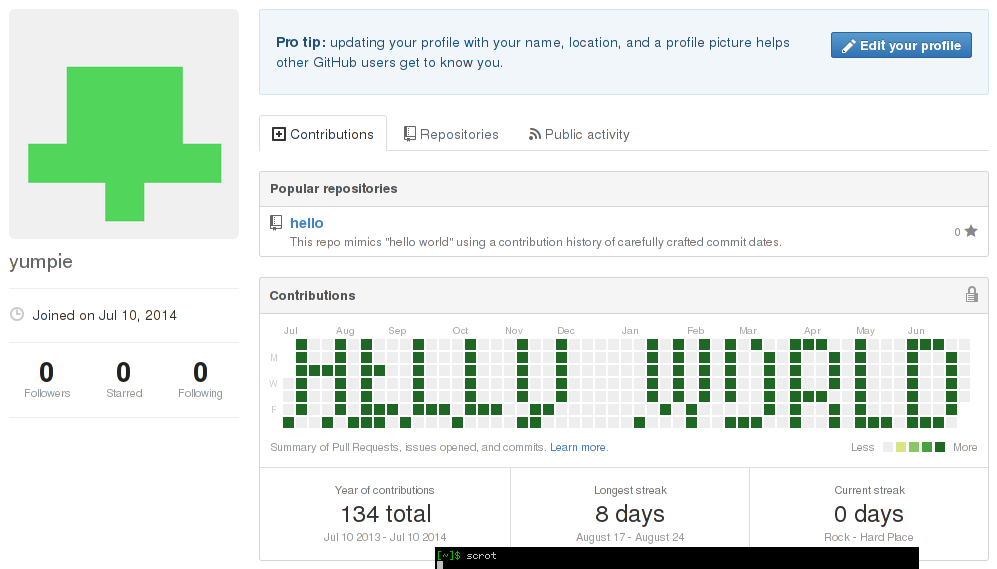
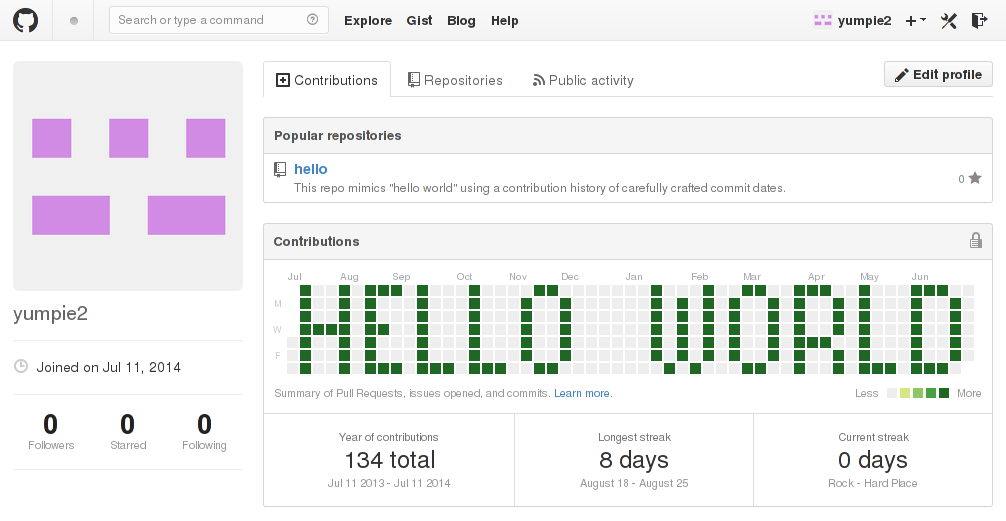
readme: Add screenshot from the second attempt.

diff --git a/cmd/mimicry/README.md b/cmd/mimicry/README.md
@@ -18,14 +18,14 @@ Usage
 Examples
 --------
 
-The mimicry command was used in a first attempt to create the [hello][]
+The mimicry command was used in a second attempt to create the [hello][]
 repository. Below is a screenshot of its contribution history as of 2014-07-11.
 
 	mimicry hello.png
 
 ![Screenshot - first try](https://raw.github.com/mewmew/playground/master/cmd/mimicry/hello world.png)
 
-[hello]: https://github.com/yumpie/hello
+[hello]: https://github.com/yumpie2/hello
 
 public domain
 -------------
